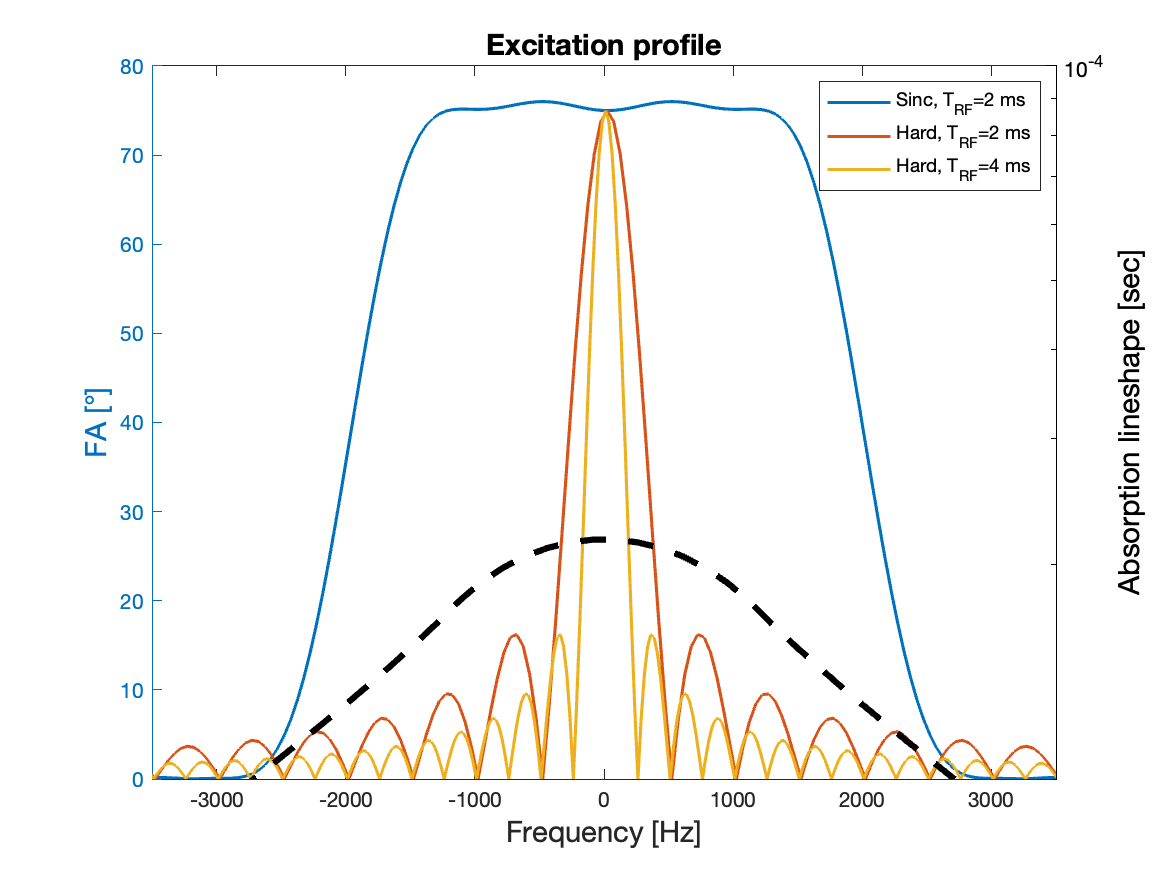
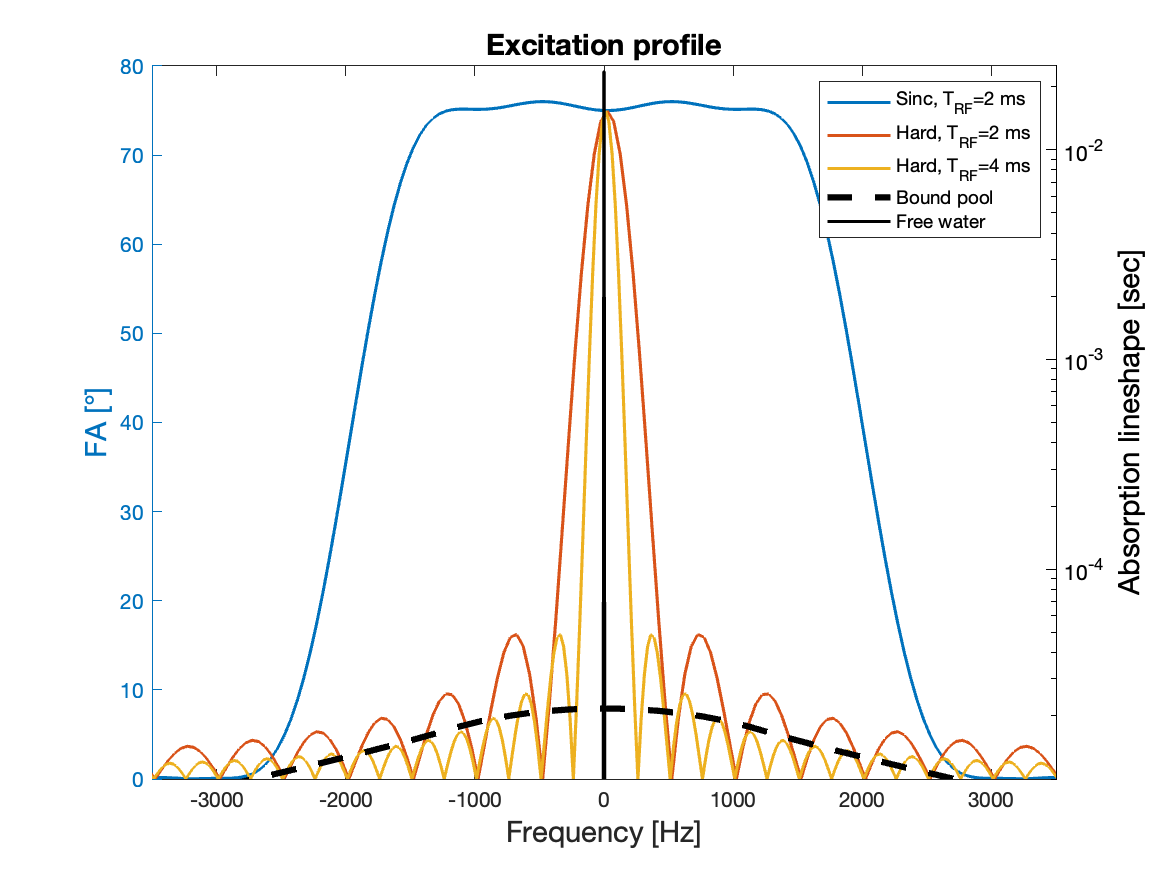
Updates
Updated for MRI R1.

diff --git a/fig2/fig2.m b/fig2/fig2.m
@@ -5,6 +5,7 @@ gam = 42.58e6; % Hz / T
 
 fsample = linspace(-1e4, 1e4, 1e4);
 [Gb, ~] = SuperLorentzian_lineshape(18e-6, fsample, 'interpzero');
+[Gw, ~] = SuperLorentzian_lineshape(90e-3, fsample);
 
 load('rf_ex.mat');
 t = rf_ex.t;
@@ -33,12 +34,14 @@ ylabel('FA [°]', 'FontSize', 14);
 hold off;
 yyaxis right;
 semilogy(fsample, abs(Gb), 'Color', 'k', 'LineStyle', '--', 'LineWidth', 3);
-ylim([1e-5 1e-4]);
+hold on;
+semilogy(fsample, abs(Gw), 'Color', 'k', 'LineStyle', '-', 'LineWidth', 1.5);
+ylim([1e-5 0.025]);
 ylabel('Absorption lineshape [sec]', 'FontSize', 14);
 
 ax = gca;
 ax.YAxis(2).Color = 'k';
-legend('Sinc, T_{RF}=2 ms', 'Hard, T_{RF}=2 ms', 'Hard, T_{RF}=4 ms');
+legend('Sinc, T_{RF}=2 ms', 'Hard, T_{RF}=2 ms', 'Hard, T_{RF}=4 ms', 'Bound pool', 'Free water');
 title('Excitation profile', 'FontSize', 14);
 
 saveas(gcf, 'fig2.png');
